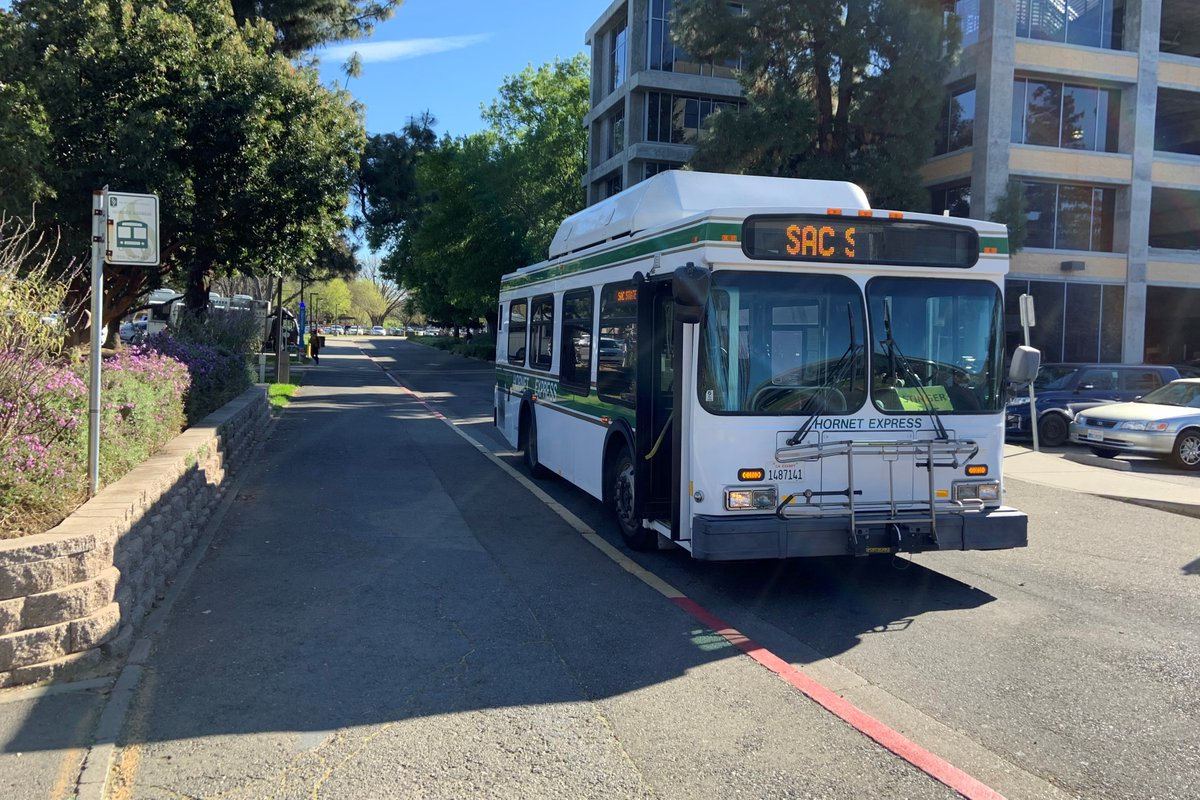
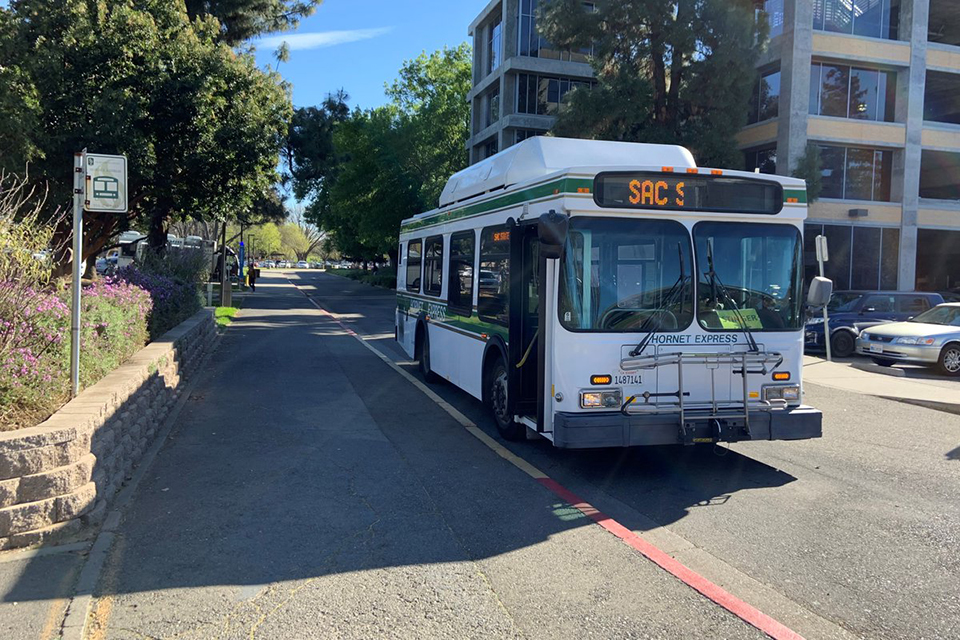
Fixed Image sizing
All images are now 960x640 144p

Changed region(s): [[0.0, 0.3125, 0.0625, 0.375]]

diff --git a/public/Options.html b/public/Options.html
@@ -244,7 +244,7 @@
                 <div class="row">
                     <div class="col-md-6">
                         <div class="card" style="background-color: #e1c57a;">
-                            <img class="card-img-top" src="https://www.csus.edu/parking-transportation/_internal/_images/parking-1000.jpg" alt="SOV">
+                            <img class="card-img-top" src="img/SOV.jpg" alt="SOV">
                             <div class="card-body d-flex flex-column">
                             <h5 class="card-title">Single Occupant Vehicle</h5>
                             <p class="card-text">You drive yourself to Sac State.</p>
@@ -277,7 +277,7 @@
                     <div class="col-md-6">
                         <div class="card" style="background-color: #e1c57a;">
                             <!-- <img class="card-img-top" src="img/transit.jpg" alt="Transit" > -->
-                            <img class="card-img-top" src="img/transit.jpg" alt="Transit" >
+                            <img class="card-img-top" src="img/transit.jpg" alt="Transit">
                             <div class="card-body d-flex flex-column">
                               <h5 class="card-title">Transit</h5>
                               <p class="card-text">You use SacRT to get to Sac State.</p>
@@ -289,7 +289,7 @@
                 <div class="row">
                     <div class="col-md-6">
                         <div class="card" style="background-color: #e1c57a;">
-                            <img class="card-img-top" src="img/bike.jpg" style="height: 320px;" alt="bike">
+                            <img class="card-img-top" src="img/bike.jpg" alt="bike">
                             <div class="card-body d-flex flex-column">
                               <h5 class="card-title">Bicycle</h5>
                               <p class="card-text">You bike to Sac State.</p>
